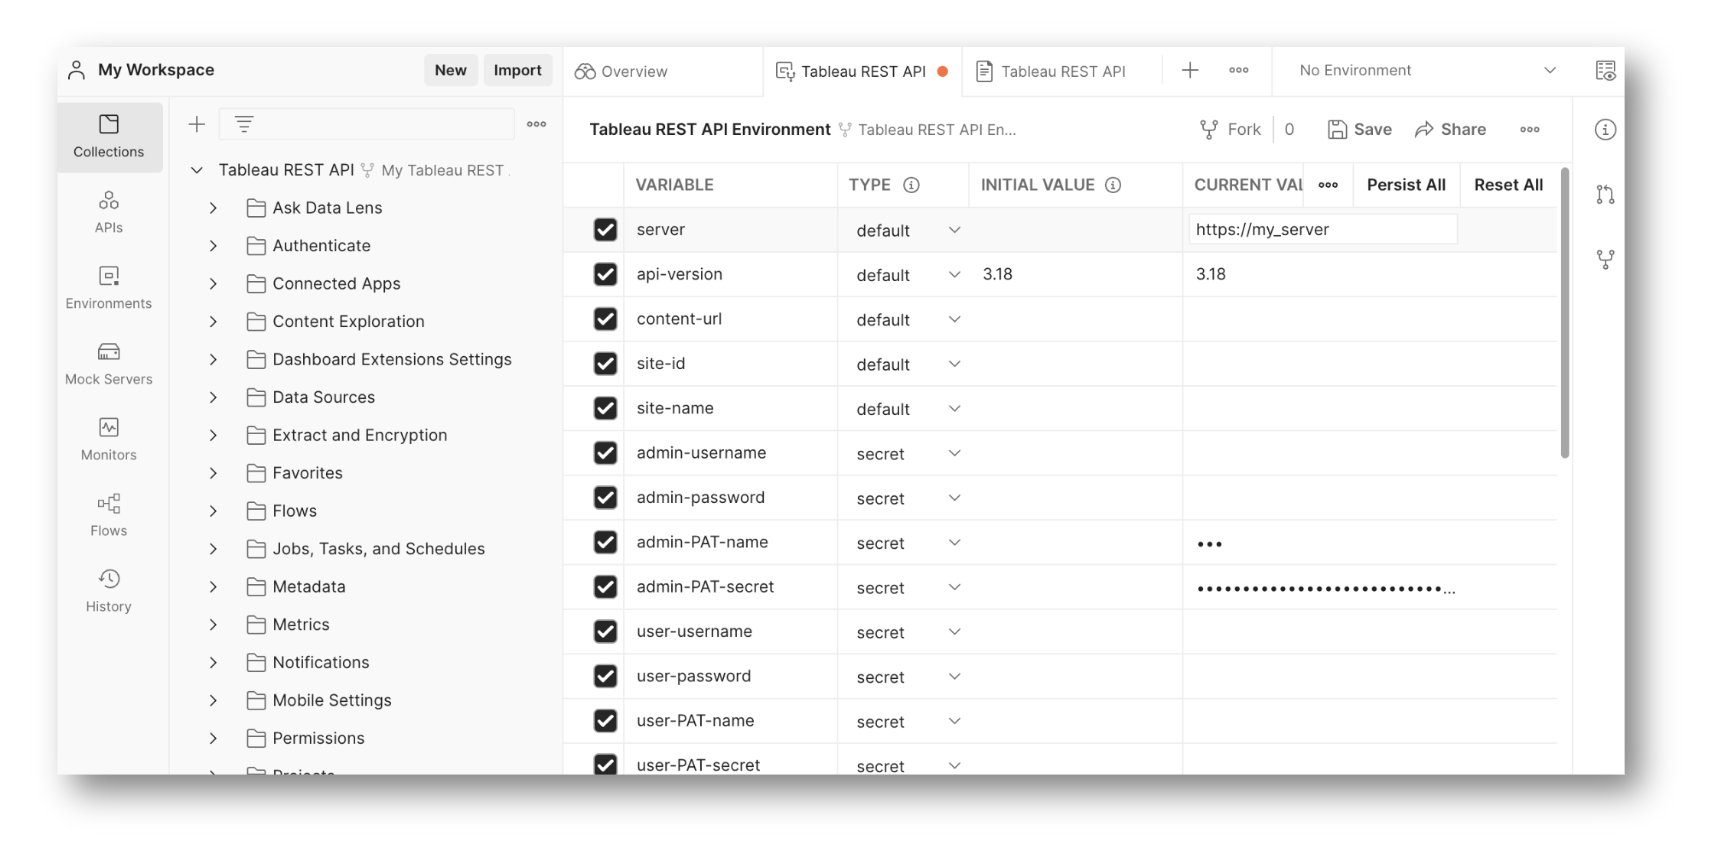
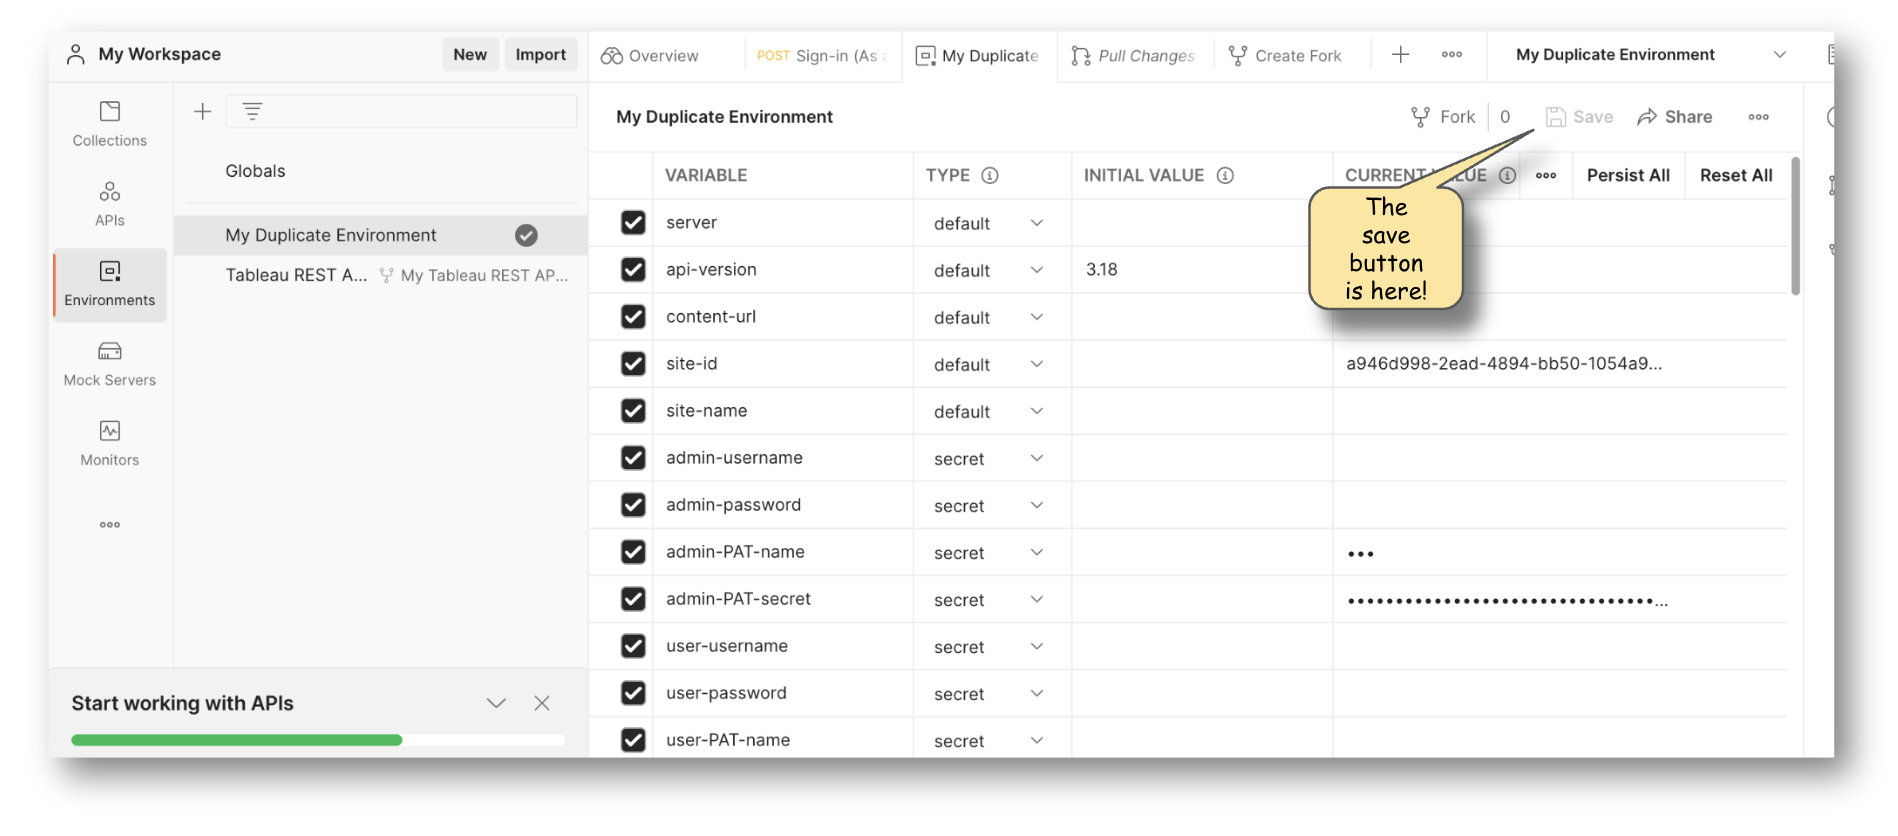
Small fixes and new environment_variables image.

diff --git a/README.md b/README.md
@@ -56,7 +56,7 @@ ___
 5.  Keep the **Watch original collection** checkbox selected to be alerted whenever updates are available to the collection.
 6. Choose **Fork environment**.
 
-   > Now you should see the environment variables in your Postman workspace.
+   > Now you should see the **Tableau REST API Environment** environment variables in your Postman workspace.
 
 7. Choose the three dots next to the forked environment and rename it to differentiate it from the original.
 
@@ -67,7 +67,7 @@ ___
 
 To configure the collection for your Tableau environment: 
 
-1. Go to the **Environment Variable** section of Postman and choose **Tableau REST API Environment**.
+1. Go to the **Environment Variable** section of Postman and choose duplicate of **Tableau REST API Environment** that you created.
 
    <img src="assets/images/environment_variables.png">
 
@@ -87,7 +87,9 @@ To configure the collection for your Tableau environment:
 
    `https://us-west-2a.online.tableau.com/#/site/myWorkbooks/home`
 
-5. Set `api-version` to match the version of your Tableau Server or the Tableau Cloud site you use.
+5. Set `api-version` to match the version of the Tableau Server or the Tableau Cloud site you use.
+
+6. Save your changes.
 
 6. Authenticate by running a sign in request and BOOM!, you are ready to use the collection.
 
